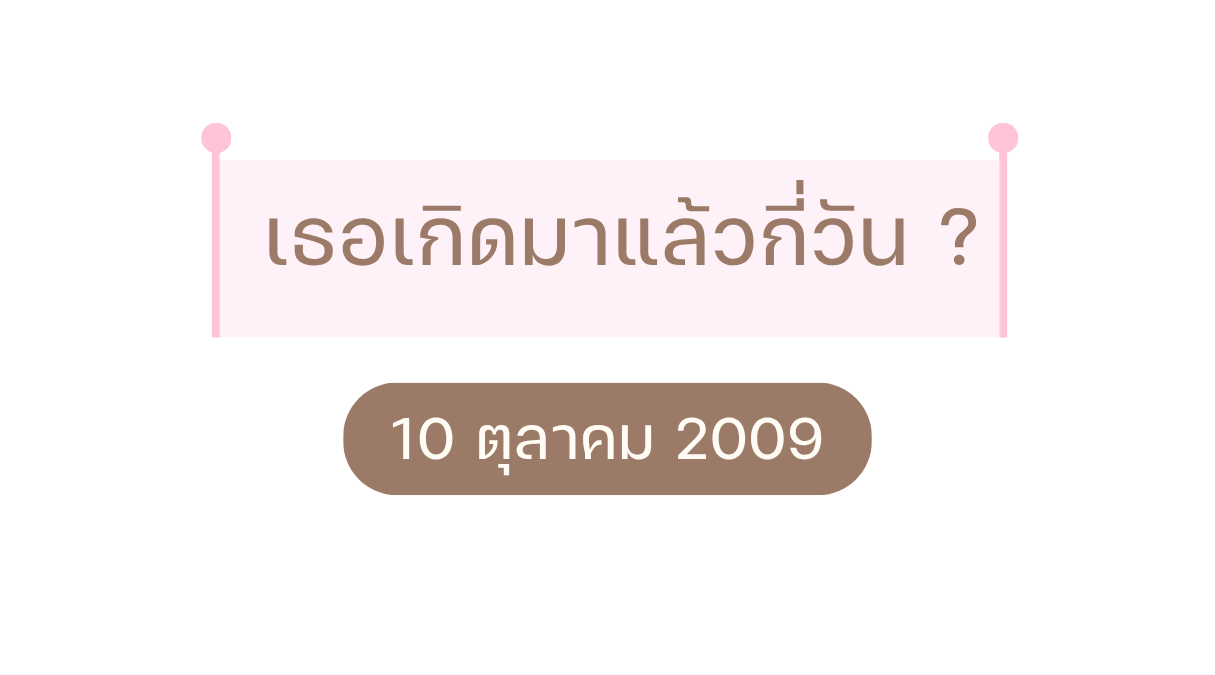
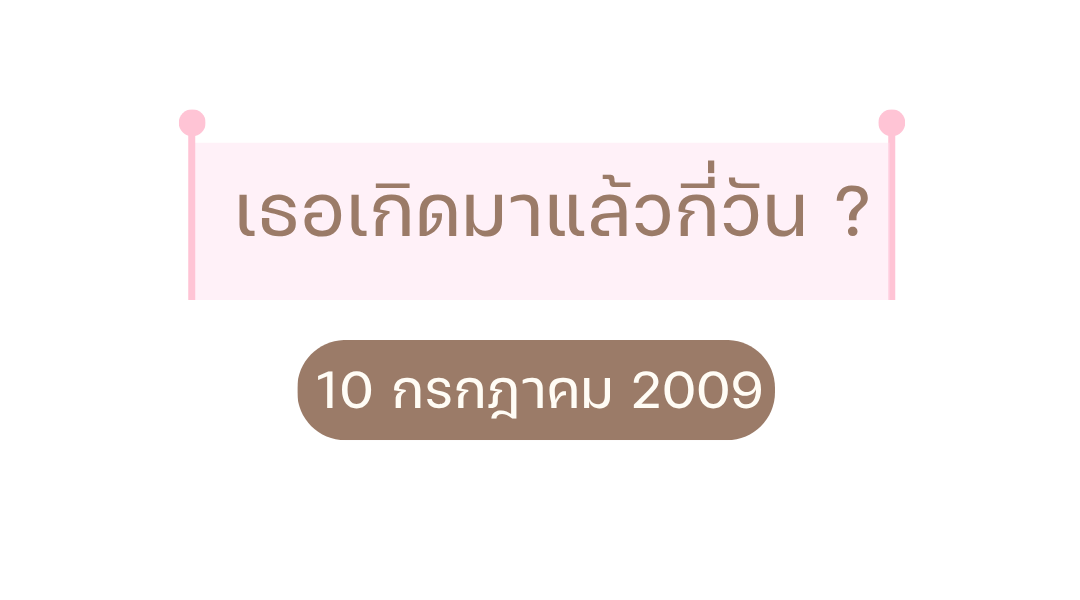
upload website

diff --git a/day.html b/day.html
@@ -1230,7 +1230,7 @@
 
     const birthDate =
       new Date(
-        "2009-10-10T00:00:00"
+        "2009-07-10T00:00:00"
       );
 
 
